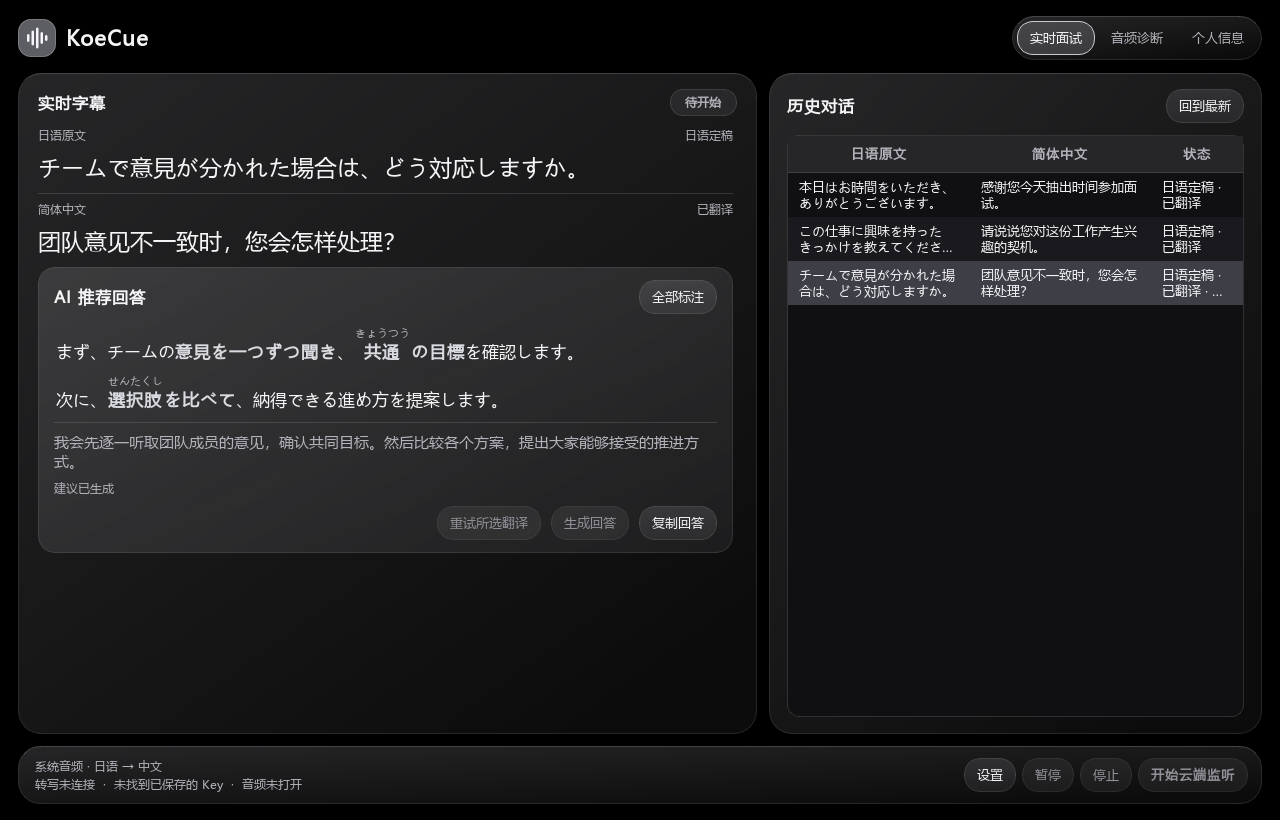
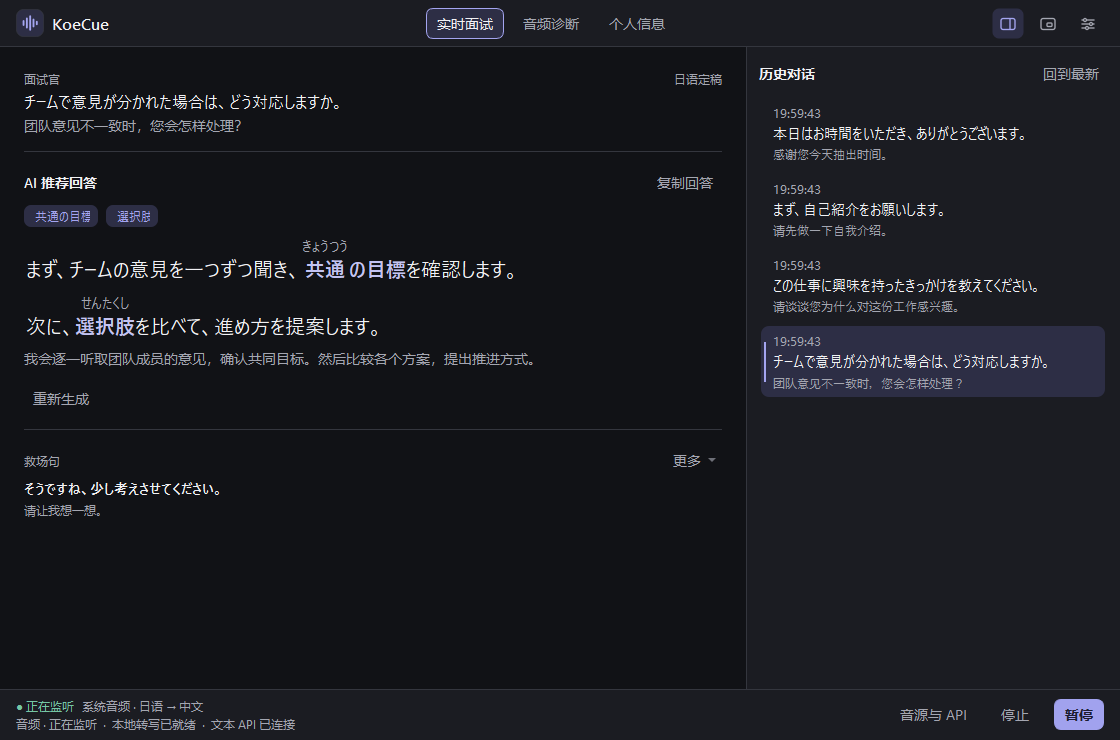
Document the redesigned KoeCue desktop experience

diff --git a/README.md b/README.md
@@ -6,9 +6,9 @@
 
 [下载 Windows ZIP](https://github.com/back2era/KoeCue/releases) · [首次使用](#首次使用) · [支持的 API](#支持的-api) · [源码运行与打包](#源码运行与打包)
 
-![KoeCue 实时面试界面。左侧显示日中字幕和带平假名的推荐回答，右侧保留历史。](docs/images/live-interview.png)
+![KoeCue 实时面试界面。左侧显示日中字幕、回答重点与救场句，右侧按时间排列历史。](docs/images/live-interview.png)
 
-*界面示例。字幕和回答为演示内容。*
+*当前源码界面示例。字幕和回答为演示内容。*
 
 ## 下载并打开
 
@@ -20,10 +20,11 @@ ZIP 已包含运行库和 Whisper 模型。无需安装 Python、输入 PowerShe
 
 ## 首次使用
 
-1. **设置 API。** 打开「实时面试 → 设置」，选择服务商、填写自己的 API Key，保留默认模型或选择其他模型。点「测试连接」可用一条固定日语短句确认文本 API。
+1. **设置 API。** 打开工具栏的「设置」或底部的「音源与 API」，选择服务商、填写自己的 API Key，保留默认模型或选择其他模型。点「测试连接」可用一条固定日语短句确认文本 API。
 2. **选择音源。** 要听会议里的日语，选择 Teams、Zoom 或浏览器正在使用的**系统播放设备**。用自己的声音练习时，选择麦克风。可先去「音频诊断」确认电平有变化。
-3. **开始监听。** 确认已取得必要同意，点「完成」保存设置，再在主界面点击「确认并开始本地转写」或「确认并开始云端监听」。已发布的 0.0.1 ZIP 在设置中通过复选框确认。说话时先显示日语字幕，断句后逐字显示中文，并自动生成双语回答建议。
-4. **回看或复制。** 点击右侧历史中的某一段，可回看字幕和对应建议。点「回到最新」继续跟随实时内容，点「复制回答」可复制日中两种文本。使用完毕后点「停止」。
+3. **开始监听。** 点「完成」保存设置，再在主界面点击「开始」。确认窗口会显示所选音源和发送范围。取得必要同意后，点「已获同意，开始监听」。已发布的 0.0.1 ZIP 在设置中通过复选框确认。说话时先显示日语字幕，断句后逐步更新中文，并自动生成双语回答建议。
+4. **回看或复制。** 点击历史对话可以回看对应字幕和回答，点「回到最新」继续跟随实时内容。长字幕和回答可展开，「复制回答」会复制完整双语文本。使用完毕后点「停止」。
+5. **打开面试小窗。** 点击工具栏的面试小窗按钮，或按 `Ctrl+Alt+Shift+K`。小窗默认置顶，支持拖动和缩放。主窗回看时，小窗仍显示最新发言。若热键已被占用，可在 KoeCue 内使用该快捷键。
 
 <details>
 <summary>查看设置界面</summary>
@@ -32,7 +33,7 @@ ZIP 已包含运行库和 Whisper 模型。无需安装 Python、输入 PowerShe
 
 </details>
 
-想让回答结合自己的经历时，在「个人信息」填写背景或导入中文、日文、英文简历，点「保存个人信息」，再授权本次要分享的条目。可在设置中选择 N5–N1 的日语难度。资料不足时，学历、经历等问题可以给待填模板。
+想让回答结合自己的经历时，在「个人信息」填写背景或导入中文、日文、英文简历，点「保存个人信息」，再授权本次要分享的条目。新配置默认使用 N3，可在设置中选择 N5–N1，已保存的级别会保留。资料不足时，学历、经历等问题可以给待填模板。
 
 ## 支持的 API
 
@@ -64,11 +65,11 @@ ZIP 已包含运行库和 Whisper 模型。无需安装 Python、输入 PowerShe
 
 | 状态 | 范围 |
 | --- | --- |
-| 已完成 | Windows 便携打包、本地 Whisper、实时日中字幕、历史与双语建议、五套主题和八家文本 API 适配 |
-| 待验证 | 各服务商真实 API、实际会议采集、30 分钟联调、端到端延迟和无 Python 的干净 Windows 11 |
+| 已完成 | Windows 便携打包、本地 Whisper、实时日中字幕、可折叠历史与双语建议、置顶面试小窗、五套主题和八家文本 API 适配 |
+| 待验证 | 多物理显示器混合 DPI、各服务商真实 API、实际会议采集、30 分钟联调、端到端延迟和无 Python 的干净 Windows 11 |
 | 后续 | 按应用独立采集 |
 
-Windows 11 x64 离线回归共 163 项通过，覆盖真实设备枚举、界面、字幕、回答核验和 API 协议替身。
+Windows 11 x64 离线回归 164 项通过，覆盖真实设备枚举、界面、字幕、回答核验和 API 协议替身。窗口在 100%、125% 和 150% 的 Qt DPI 下检查了默认、窄窗、最大化和悬浮状态。本地打包验证覆盖原生窗口、悬浮窗和内置 Whisper 推理。
 
 ## 源码运行与打包
 
